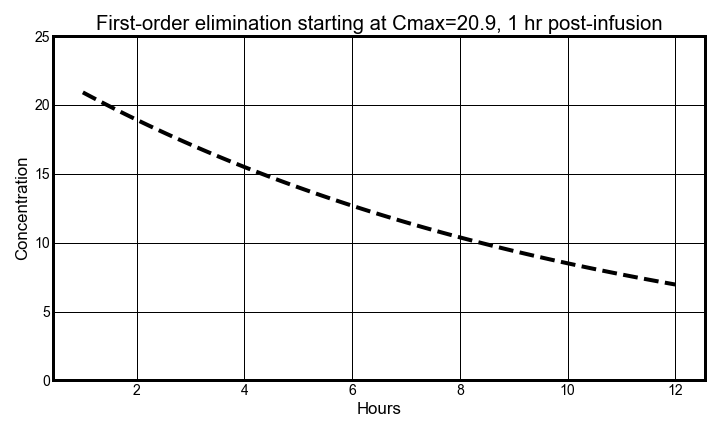
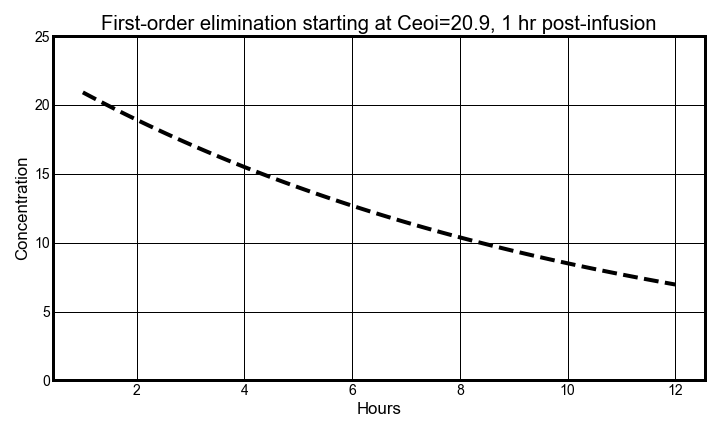
trying to change c_max to c_eoi and also c_post to c_elim(t)

Changed region(s): [[0.1222, 0.0301, 0.9167, 0.0903]]

diff --git a/.virtual_documents/vanco-auc.ipynb.py b/.virtual_documents/vanco-auc.ipynb.py
@@ -33,11 +33,11 @@ plt.tight_layout()
 plt.savefig("Images/cont_infusion.png")
 
 
-cmax = R_0 / CL_vanco * (1 - math.exp(-K_e * t_inf))
+c_eoi = R_0 / CL_vanco * (1 - math.exp(-K_e * t_inf))
 
 
 def  c_elim(t):
-    return cmax * math.exp(-K_e * (t - t_inf))
+    return c_eoi * math.exp(-K_e * (t - t_inf))
 
 
 X = np.linspace(t_inf,tau,100) 
@@ -45,7 +45,7 @@ Y = [ c_elim(t) for t in X]
 plt.figure(figsize = (10,6))
 plt.plot(X,Y,'--k')
 
-plt.title(f"First-order elimination starting at Cmax={cmax:.1f}, {t_inf} hr post-infusion")
+plt.title(f"First-order elimination starting at Ceoi={ceoi:.1f}, {t_inf} hr post-infusion")
 plt.style.use(plt.style.available[8])
 plt.xlabel("Hours")
 plt.ylabel("Concentration")
@@ -69,7 +69,7 @@ def labelPlot():
     plt.title('First-order Concentration Plot')
     
 def annotateInterestingPoints():
-    plt.annotate(f"Cmax: {cmax:.1f}",xy = (1,cmax),xytext = (-20,20),textcoords ='offset points')
+    plt.annotate(f"Cmax: {ceoi:.1f}",xy = (1,ceoi),xytext = (-20,20),textcoords ='offset points')
     plt.annotate(f"Cpeak: {cpeak:.1f}",(1+1,cpeak),xytext = (10,25),textcoords ='offset points')
     plt.annotate(f"Ctrough: {ctrough:.1f}",(tau-0.5,ctrough),xytext = (-70,-23),textcoords ='offset points')
     plt.annotate(f"Cmin: {cmin:.1f}",(tau,cmin),xytext = (-65,-40),textcoords ='offset points')
@@ -82,14 +82,14 @@ plt.figure(figsize = (10,6))
 plt.plot(X,Y,'--k')
 
 #interesting points
-cmax = concentration(1)
+ceoi = concentration(1)
 cpeak = concentration(1+1) # <~ wait 1? hr after infusion
 ctrough = concentration(tau-0.5) # <~ 30 min before next dose
 cmin = concentration(tau)
-plt.scatter(x=[1,1+1,tau-0.5,tau],y=[cmax,cpeak,ctrough,cmin],linewidths=8,c='k')
+plt.scatter(x=[1,1+1,tau-0.5,tau],y=[ceoi,cpeak,ctrough,cmin],linewidths=8,c='k')
 
 #annotate points
-plt.annotate(f"Cmax: {cmax:.1f}",xy = (1,cmax),xytext = (-30,20),textcoords ='offset points')
+plt.annotate(f"Ceoi: {ceoi:.1f}",xy = (1,ceoi),xytext = (-30,20),textcoords ='offset points')
 plt.annotate(f"Cpeak: {cpeak:.1f}",(1+1,cpeak),xytext = (10,25),textcoords ='offset points')
 plt.annotate(f"Ctrough: {ctrough:.1f}",(tau-0.5,ctrough),xytext = (-70,-23),textcoords ='offset points')
 plt.annotate(f"Cmin: {cmin:.1f}",(tau,cmin),xytext = (-65,-40),textcoords ='offset points')

diff --git a/README.md b/README.md
@@ -76,7 +76,7 @@ def concentration(t):
     if t_inf_start < t <= t_inf_end:
         return c_inf(t)
     else:
-        return c_post(t)
+        return c_elim(t)
 ```
 
 
@@ -134,14 +134,14 @@ c_{inf}(t) \Rightarrow \frac{R_0}{CL_{vanco}}(1 - e^{-K_e \times t}) \:\;\;\;\;\
 
 ```python
 
-def c_post(t):
-    return cmax * math.exp(-K_e * (t - t_inf))
+def c_post(t): 
+    return c_eoi * math.exp(-K_e * (t - t_inf))
 ```
 
 <details><summary>Latex Syntax</summary>
 <blockquote>
     
-<code>c_{elim}(t) \Rightarrow c_{max} \times e^{-K_e \times (t-t_{inf})}
+<code>c_{elim}(t) \Rightarrow c_{eoi} \times e^{-K_e \times (t-t_{inf})}
 \:\:\:\:\:\:\: [3]  
 </code>
     
@@ -155,7 +155,7 @@ plt.title(f"First-order elimination starting at Cmax={cmax:.1f}, 1hr post-infusi
 ```
 ![](Images/elmination.png)
 
-## Now, all we gotta to is plot!
+## Now, all we gotta to is plot !
 
 Since plot does not take function,
 - sample 100 points along `concentration(t)` function over 12 hrs
